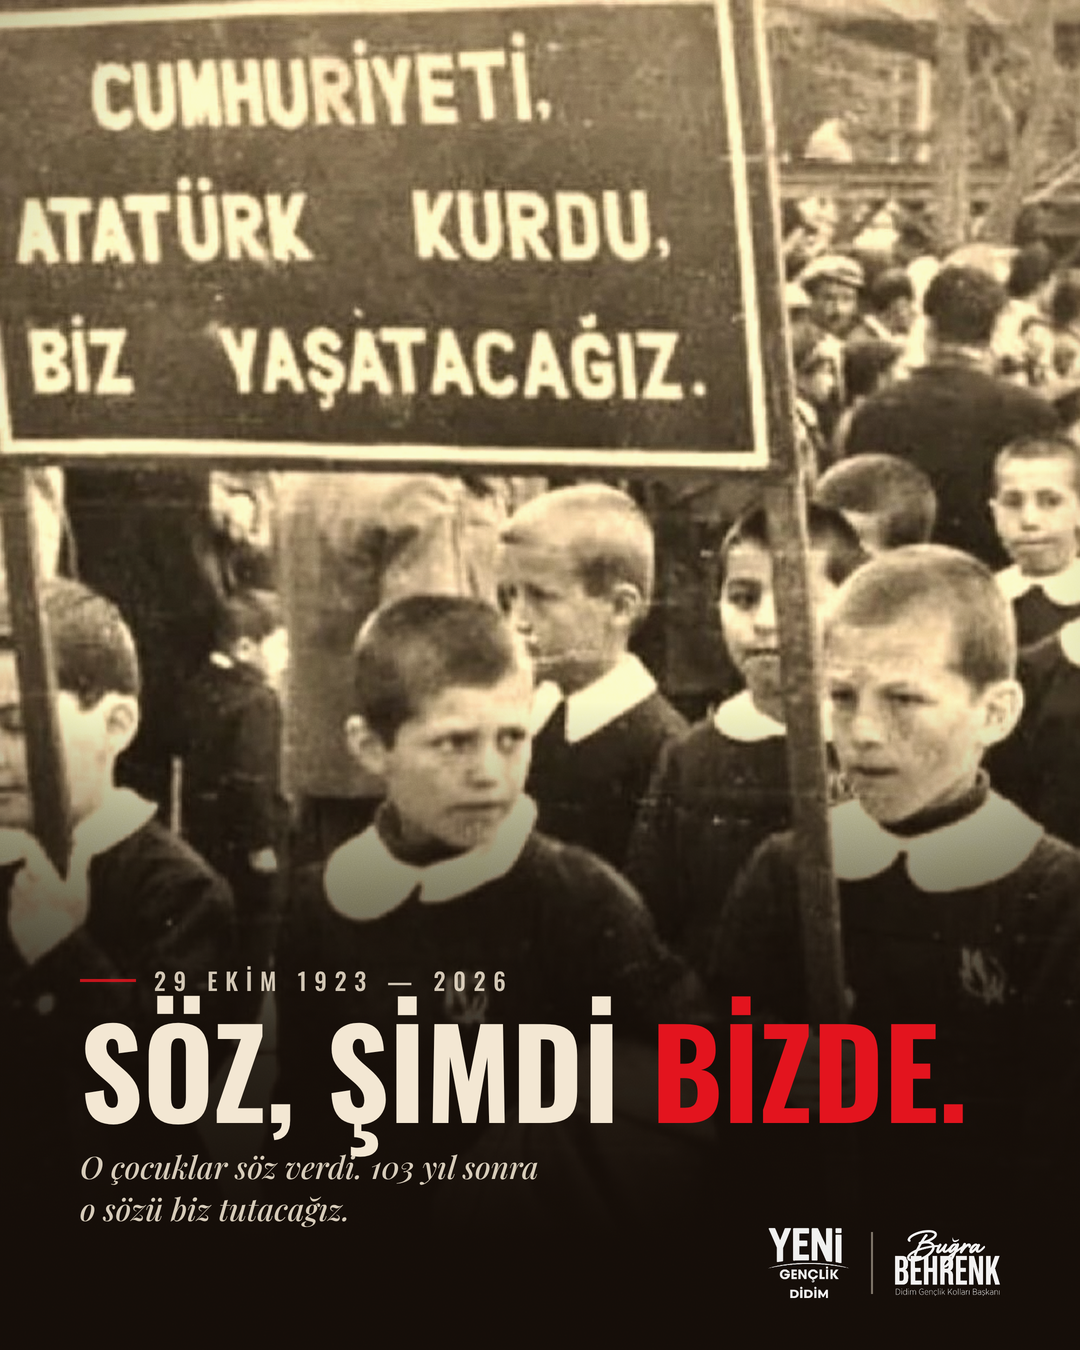
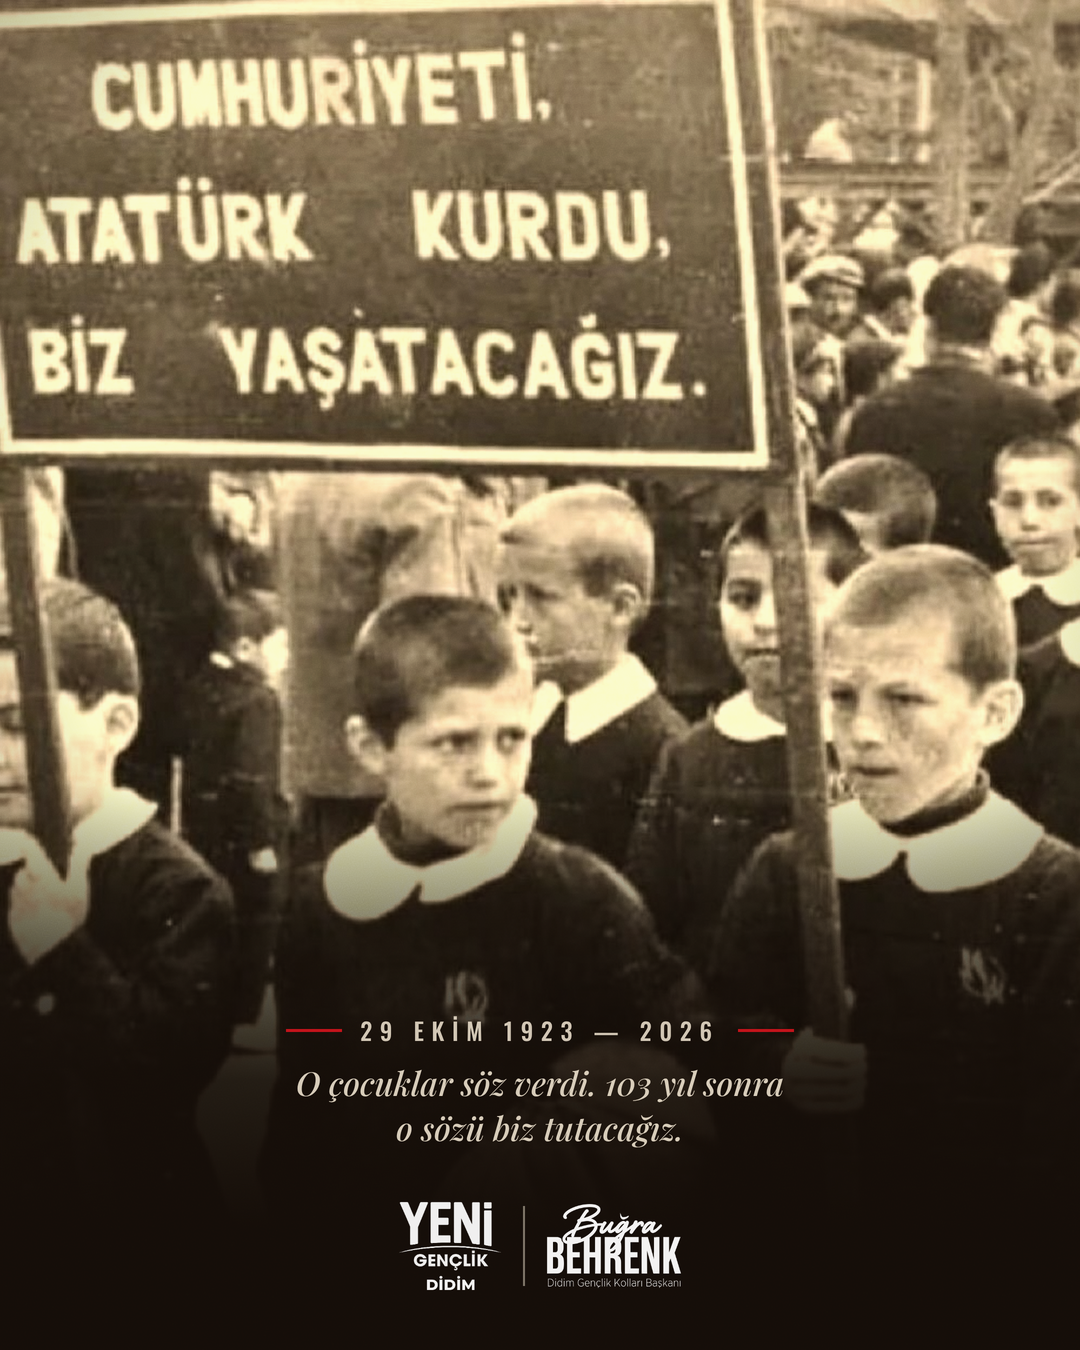
29 Ekim: dikey görsel, başlık kaldırıldı, imza ortalandı
Claude-Session: https://claude.ai/code/session_01SatttGbgBLoCnk9KGLypWv

diff --git a/tasarim/kisisel/29-ekim/cumhuriyet2.html b/tasarim/kisisel/29-ekim/cumhuriyet2.html
@@ -9,25 +9,24 @@ html,body{margin:0;width:1080px;height:1350px;overflow:hidden;background:#140D08
 .foto img{position:absolute;left:0;top:0;height:1350px;filter:sepia(.35) contrast(1.08) brightness(.98)}
 /* tek parça: alttan sıcak koyu kahveye erir, kenarlar hafif kararır */
 .ton{position:absolute;inset:0;background:
-  linear-gradient(180deg,rgba(20,13,8,0) 52%,rgba(20,13,8,.55) 66%,rgba(20,13,8,.9) 78%,#140D08 92%),
+  linear-gradient(180deg,rgba(20,13,8,0) 58%,rgba(20,13,8,.62) 70%,rgba(20,13,8,.93) 80%,#140D08 91%),
   radial-gradient(ellipse 85% 75% at 50% 35%,rgba(0,0,0,0) 55%,rgba(20,13,8,.55) 100%)}
 .gren{position:absolute;inset:0;opacity:.22;mix-blend-mode:overlay}
-.metin{position:absolute;left:80px;right:80px;top:968px}
-.ust{display:flex;align-items:center;gap:18px;font:24px/1 O5;letter-spacing:.32em;color:var(--krem);opacity:.85}
+.metin{position:absolute;left:0;right:0;top:1018px;text-align:center}
+.ust{display:flex;justify-content:center;align-items:center;gap:18px;font:24px/1 O5;letter-spacing:.32em;color:var(--krem);opacity:.85}
 .ust i{display:block;width:56px;height:3px;background:var(--kirmizi)}
 .ana{margin-top:18px;font:122px/.95 O7;color:var(--krem);white-space:nowrap}
 .ana em{font-style:normal;color:var(--kirmizi)}
-.alt{margin-top:20px;font:31px/1.35 PI;color:rgba(243,231,211,.88)}
-.imza{position:absolute;right:80px;bottom:52px;display:flex;align-items:center;gap:22px;opacity:.95}
-.imza .logo{height:70px}.imza .ayrac{width:2px;height:62px;background:rgba(243,231,211,.5)}.imza .ad{height:66px}
+.alt{margin-top:18px;font:33px/1.35 PI;color:rgba(243,231,211,.88)}
+.imza{position:absolute;left:0;right:0;bottom:60px;display:flex;justify-content:center;align-items:center;gap:22px;opacity:.95}
+.imza .logo{height:88px}.imza .ayrac{width:2px;height:80px;background:rgba(243,231,211,.5)}.imza .ad{height:84px}
 </style>
 <body>
 <div class="foto"><img src="ataturk-kurdu.jpg"></div>
 <div class="ton"></div>
 <svg class="gren" width="1080" height="1350"><filter id="g"><feTurbulence type="fractalNoise" baseFrequency=".85" numOctaves="2" seed="9"/><feColorMatrix type="saturate" values="0"/></filter><rect width="1080" height="1350" filter="url(#g)"/></svg>
 <div class="metin">
-  <div class="ust"><i></i>29 EKİM 1923 — 2026</div>
-  <div class="ana">SÖZ, ŞİMDİ <em>BİZDE.</em></div>
+  <div class="ust"><i></i>29 EKİM 1923 — 2026<i></i></div>
   <div class="alt">O çocuklar söz verdi. 103 yıl sonra<br>o sözü biz tutacağız.</div>
 </div>
 <div class="imza"><img class="logo" src="logo-beyaz.png"><span class="ayrac"></span><img class="ad" src="imza-beyaz.png"></div>
